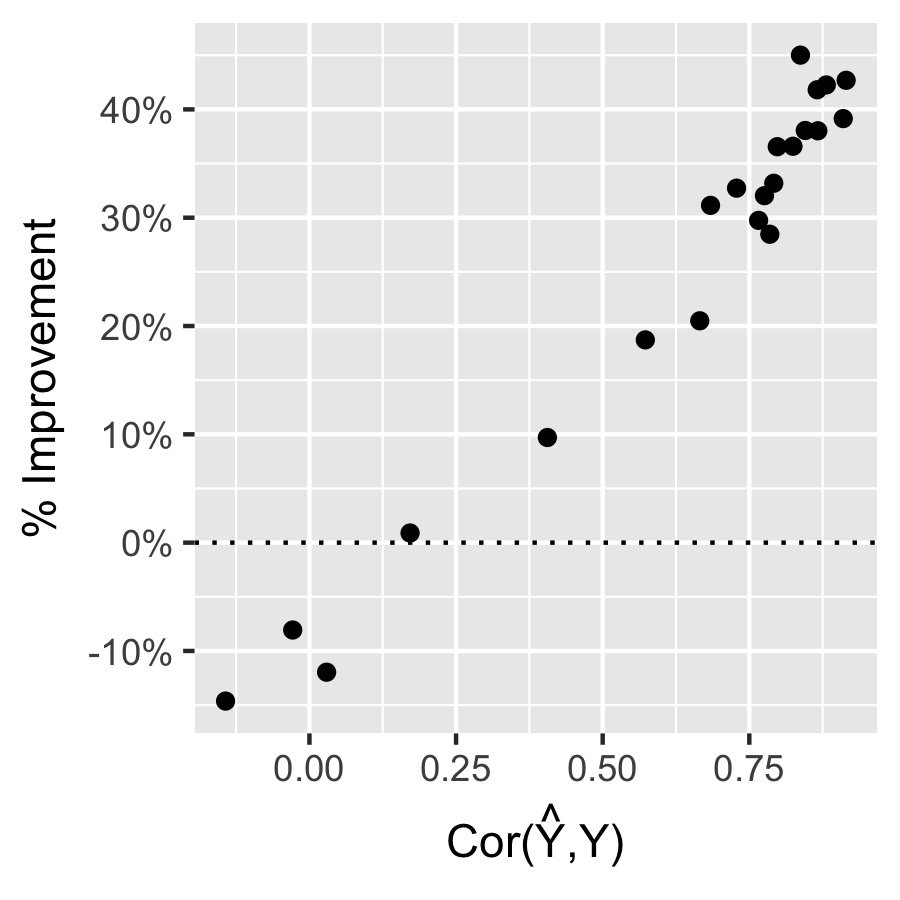
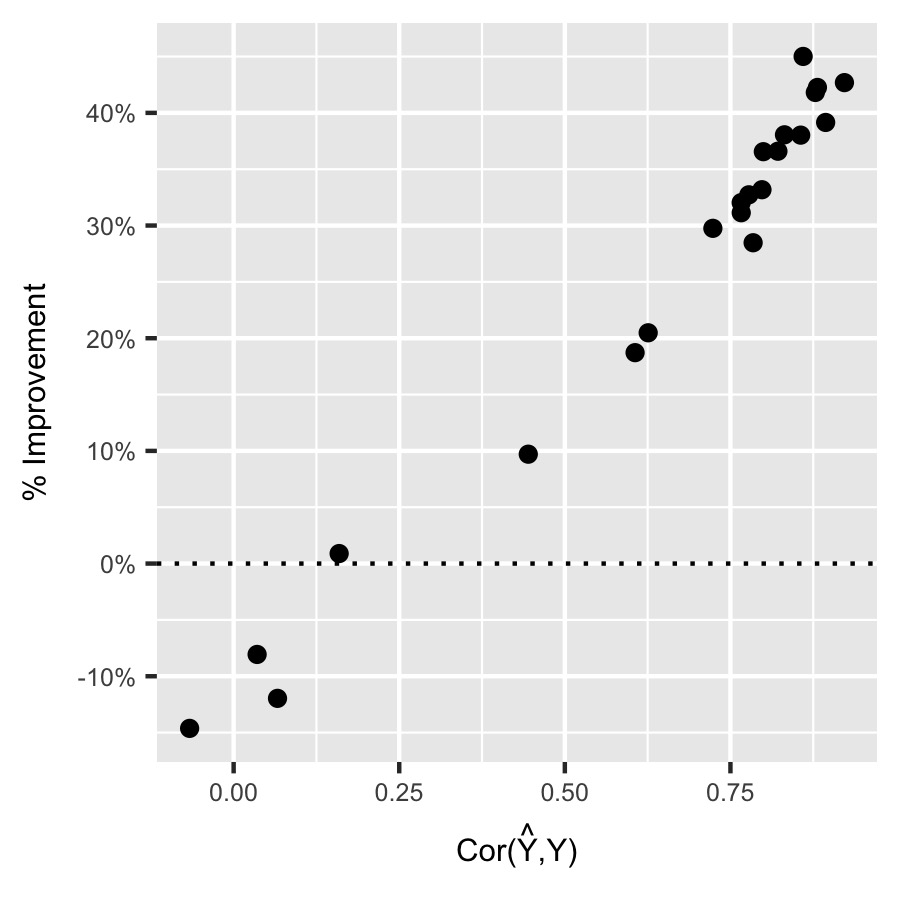
tues nite

diff --git a/main.tex b/main.tex
@@ -2,12 +2,18 @@
 
 %\usepackage{amsthm,amsmath,amsfonts}
 \usepackage{bm}
+\usepackage{comment}
 
 \newcommand{\yti}{y_{Ti}}
 \newcommand{\yci}{y_{Ci}}
 \newcommand{\yhati}{\hat{y}_{Ci}}
 \newcommand{\yhat}{\hat{y}_C}
 \newcommand{\tauhat}{\hat{\tau}}
+\newcommand{\rebar}{\hat{\tau}_{rebar}}
+\newcommand{\model}[1]{\hat{y}_C(#1)}
+\newcommand{\EE}{\mathbb{E}}
+
+\newtheorem{prop}{Proposition}
 
 
 \begin{document}
@@ -58,32 +64,96 @@ Randomized A/B tests in educational software are not run in a vacuum: often, rea
 \subsection{Average Treatment Effects in Experiments}
 The effect of an intervention $Z$ on an outcome $Y$ is a matter of counterfactuals: how would $Y$ have been different had $Z$ been different? 
 To formalize, following \citeN{neyman} and \citeN{rubin}, let $\yci$ be the value of $Y$ subject $i$ would experience if assigned to the control condition and $\yti$ be the value of $Y$ he or she would experience if assigned to the treatment condition. These are called ``potential outcomes.'' The outcome actually observed, $Y_i=Z_i\yti+(1-Z_i)\yci$, is $\yti$ if $i$ is assigned to treatment and $\yci$ if $i$ is assigned to control.\footnote{This notation implicitly assumes the ``stable unit value treatment assignment'' \cite{sutva}, that treatment assignment is well defined and one subject's treatment assignment does not affect other subjects' outcomes.} The treatment effect for $i$ would be $\tau_i\equiv \yti-\yci$. Since for each subject only one of $\yti$ or $\yci$ is ever actually observed, $\tau_i$ is, in general, unknowable. However, aggregate quantities such as the ``sample average treatment effect'' (ATE), $\bar{y}_T-\bar{y}_C$ may be estimated in experiments. Here, $\bar{y}_T$ is the average potential outcome under treatment for all subjects in the experiment (treatment and control), and $\bar{y}_C$ is the average of $y_C$ for all subjects.
+
 If $Z$ is randomized, then the treatment group is a random sample of all experimental subjects, and $\bar{Y}_{Z=1}$, the average observed outcome for treated subjects, is an unbiased estimate of $\bar{y}_T$, the average of $y_T$ over all subjects and $\bar{Y}_{Z=0}$ unbiasedly estimates $\bar{y}_C$. Then their difference, 
-\begin{equation*}
+\begin{equation}\label{eq:tauEst}
 \tauhat=\bar{Y}_{Z=1}-\bar{Y}_{Z=0}
-\end{equation*}
+\end{equation}
 is an unbiased estimate of the ATE. 
 Perhaps surprisingly, the standard error for $\tauhat$ is not identified; however, a popular conservative bound \cite{neyman} is
-\begin{equation}
-Var(\tauhat)=\frac{S^2(y_T)}{n_T}+\frac{S^2(y_C)}{n_C}
+\begin{equation}\label{eq:tauSE}
+Var(\tauhat)=\frac{S^2(Y_{Z=1})}{n_T}+\frac{S^2(Y_{Z=1})}{n_C}
 \end{equation}
-In theory, the variance of $\tauhat$ is
-\begin{equation*}
-Var{\tauhat}=\frac{S^2(y_T)}{n_T}+\frac{S^2(y_C)}{n_C}-\frac{S^2(\tau)}{n}
-\end{equation*}
-where $n_T$ is the number of subjects assigned to treatment, $n_C$ is the number assigned to control, and $n=n_T+n_C$. $S^2(y_T)$ is the sample variance of $y_T$, or $\sum (y_T-\bar{y}_T)^2/(n-1)$, $S^2(y_C)$ is the sample variance of $y_C$, and $S^2(\tau)$ is the sample variance of the individual treatment effects, $\yti-\yci$. 
-The sample variances of the potential outcomes, $S^2(y_T)$ and $S^2(y_C)$, can be estimated without bias using the observed outcomes, as $S^2(Y_{Z=1})$ and $S^2(Y_{Z=0})$.
-However, since individual treatment effects are unknown, their variance is, too. 
+where $n_T$ is the number of subjects assigned to treatment, $n_C$ is the number assigned to control, $S^2(Y_{Z=1})$ and $S^2(Y_{Z=0})$ are the sample variances of $Y$ in the treatment and control groups, respectively. 
+Note that this discussion assumes nothing about the distribution of $Y$ in either treatment group. 
+
+By regressing $Y$ on $Z$ and a matrix of covariates $\bm{x}$---variables defined prior to treatment assignment---it is often possible to estimate the ATE more precisely---although the wrong functional form or other mistaken assumptions can introduce bias \cite{freedman}.  
+When covariates are high-dimensional or complex (e.g. longitudinal), these problems are exacerbated. 
+In particular, extensive model selection renders inference from regression all but impossible. 
+
+\subsection{Historical Data and Covariates} 
+None of this leaves much room for the remnant from an experiment: subjects who were not randomized, perhaps because their classrooms did not participate or because they were no longer eligible when the experiment began. 
+On the one hand, data from the remnant can only confuse matters---treatment was not randomized in the remnant, and the remnant may differ from experimental subjects in all sorts of ways. 
+On the other hand, including it in the analysis may increases the sample size dramatically, and increase precision.
+
+In fact, you can have it both ways, using the remnant to increase precision without sacrificing any of the advantages of experimentation. 
+This is how:
+\begin{enumerate}
+ \item Using data from the remnant, train a model $\model{\cdot}$ predicting $y_C$ as a function of $\bm{x}$.
+ \item Validate $\model{\cdot}$ (using cross-validation or other techniques). if it performs well, proceed; otherwise return to (1).
+ \item Use $\model{\cdot}$ and covariates $\bm{x}$ in the experimental sample to generate predicted outcomes $\model{\bm{x}}$ and residuals, $e=Y-\model{\bm{X}}$.
+ \item Estimate the ATE as in (\ref{eq:tauEst}) and (\ref{eq:tauSE}), replacing $e$ for $Y$:
+ \begin{equation}\label{eq:rebarEst}
+ \rebar=\bar{e}_{Z=1}-\bar{e}_{Z=0}
+\end{equation}
+and 
+\begin{equation}\label{eq:rebarSE}
+Var(\rebar)=\frac{S^2(e_{Z=1})}{n_T}+\frac{S^2(e_{Z=1})}{n_C}
+\end{equation}
+\end{enumerate}
+Just like the traditional estimator (\ref{eq:tauEst})-(\ref{eq:tauSE}), the rebar estimator $\rebar$ is design-based---its logical basis is the designed experiment, not a model. 
+On the other hand, it harvests information from the remnant to improve upon $\tauhat$.
+Since it uses the remnant to extract prediction residuals from the outcome, we call it ``remnant-based residualization", or ``rebar.''
+
+The tool rebar uses is the model $\model{\cdot}$, which predicts $y_C$ as a function of $\bm{x}$. 
+In EDM settings, the dimension of available covariates is very large, and sample sizes are often large as well---machine learning algorithms make strong candidates for $\model{\cdot}$.
+$\model{\cdot}$ is not a statistical model \emph{per se}, estimating the parameters of a probability distribution, but as a tool for prediction.
+Indeed, it need not be correct in any sense, and its estimates need not be unbiased or consistent. 
+Since it is fit on a separate sample from the experimental subjects, the process of fitting it---steps 1 and 2 above---do not affect standard errors, and model misspecification does not lead to bias.
+
+Rebar improves the precision of an experimental estimate if the variance of the residuals $\bm{e}$ is less than the variance of the raw outcomes $Y$.
+This will be the case if $\model{\bm{X}}$ is a good prediction of $y_C$---by residualizing, we subtract out the component of $Y$'s variance that is predicted by $\model{\bm{x}}$. 
+In fact, we will show in our results, below, that the Pearson correlation between $\model{\bm{x}}$ and $Y_{Z=0}$ is a strong predictor of the extent rebar improves upon $\tauhat$. 
+
+The previous discussion assumed simple randomization. 
+However, rebar easily extends to more complex designs.
+Further, as we will illustrate below, rebar can be extended to regression estimators of causal effects as well, modeling low-dimensional covariates within sample and high-dimensional covariates out of sample. 
 
 
-%% var(y1bar-y0bar|nt,nc)=var(y1bar)+var(y0bar)-2cov(y1bar,y2bar)
-%% cov(y1bar,y0bar)=1/nt1/nc cov(sum(ytZ),sum(yc(1-z)))= 
-%% 1/nt1/nc sum cov(ytiZi,yci(1-Zi))=-1/nt1/nc sum(cov(yti,yci))
 \section{Deep Learning to Predict Completion}
 (Anthony)
 
 \section{Results}
-(Adam)
+\begin{figure}
+\centering
+\includegraphics[width=0.5\textwidth]{estEff1.jpg}
+\caption{Effect estimates and 95\% confidence intervals for the 22 experiments, using both the usual and rebar estimates. Experiments are ordered by their estimated effect.}
+\label{fig:estEff1}
+\end{figure}
+\begin{figure}
+\centering
+\includegraphics[width=0.5\textwidth]{corVsSE.jpg}
+\caption{The improvement in precision of effect estimates, as a percentage of the usual precision estimate, $[SE(\tauhat)-SE(\rebar)]/SE(\tauhat)$ plotted as a function of the correlation of outcomes and predictions, $cor(Y,\model{\bm{x}})$.}
+\end{figure}
+
+\begin{comment}
+\subsection{Incorporating Regression Controls}
+\begin{figure}
+\centering
+\includegraphics[width=0.5\textwidth]{estEff2.jpg}
+\caption{Effect estimates and 95\% confidence intervals for the 22 experiments, from regressions of $Y$ (usual) or $e$ (rebar) on $Z$, prior \% Completed and Prior \% Correct.}
+\label{fig:estEff1}
+\end{figure}
+
+\begin{figure}
+\centering
+\includegraphics[width=0.5\textwidth]{corVsSE2.jpg}
+\caption{The improvement in precision of effect estimates, as a percentage of the usual precision estimate for the usual and rebar regression estimators, plotted as a function of the correlation of outcomes and predictions, $cor(Y,\model{\bm{x}})$.}
+\end{figure}
+\end{comment}
+
+
+
 
 \section{Discussion}
 (Adam)
